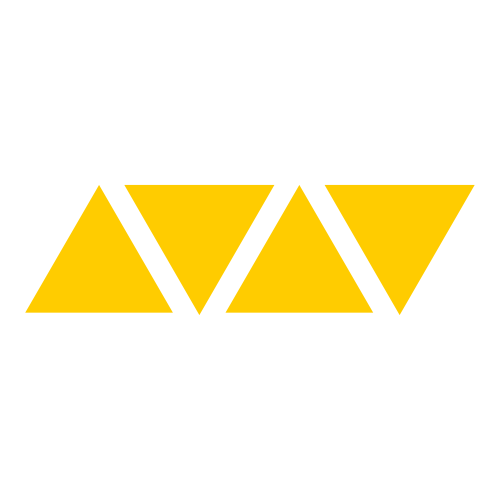
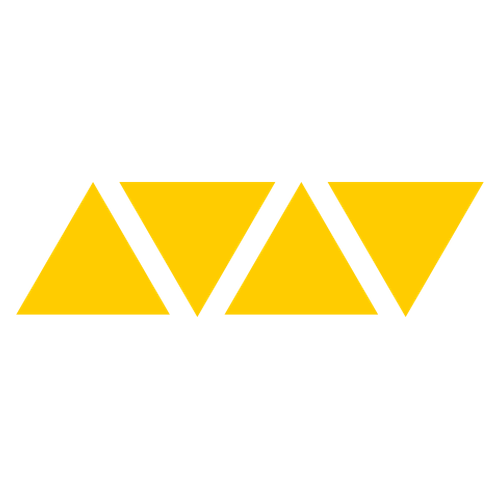
Free Fire: put 4_alive.png on the same frame as the other four
Its bar was drawn about 4% smaller inside the same 500x500 canvas than
Dead/1/2/3 -- content box (25,184)-(475,316) against their
(16,182)-(484,318) -- so the four-alive indicator came out a shade
smaller on air than the three-alive one it replaces. It was being
compensated for with a crop of its own; the file is re-framed onto their
box instead, scaled by the bar's length so nothing in the drawing is
stretched, and all five share one crop again.

diff --git a/overlay/freefire_alive_status.html b/overlay/freefire_alive_status.html
@@ -545,7 +545,11 @@ const LAYOUTS = {
       "1_alive.png": { size: 63.03, px: -2.02, py: -22.82 },
       "2_alive.png": { size: 63.03, px: -2.02, py: -22.82 },
       "3_alive.png": { size: 63.03, px: -2.02, py: -22.82 },
-      "4_alive.png": { size: 65.56, px: -3.28, py: -24.08 },
+      /* Was cropped differently to compensate for 4_alive.png having its
+         bar drawn ~4% smaller inside the same canvas than the other four.
+         The file was re-framed onto their box instead, so it shares the
+         one crop now -- kept listed so the set reads as a set. */
+      "4_alive.png": { size: 63.03, px: -2.02, py: -22.82 },
     },
     originY: 536,          // centre of y 254..818
 
